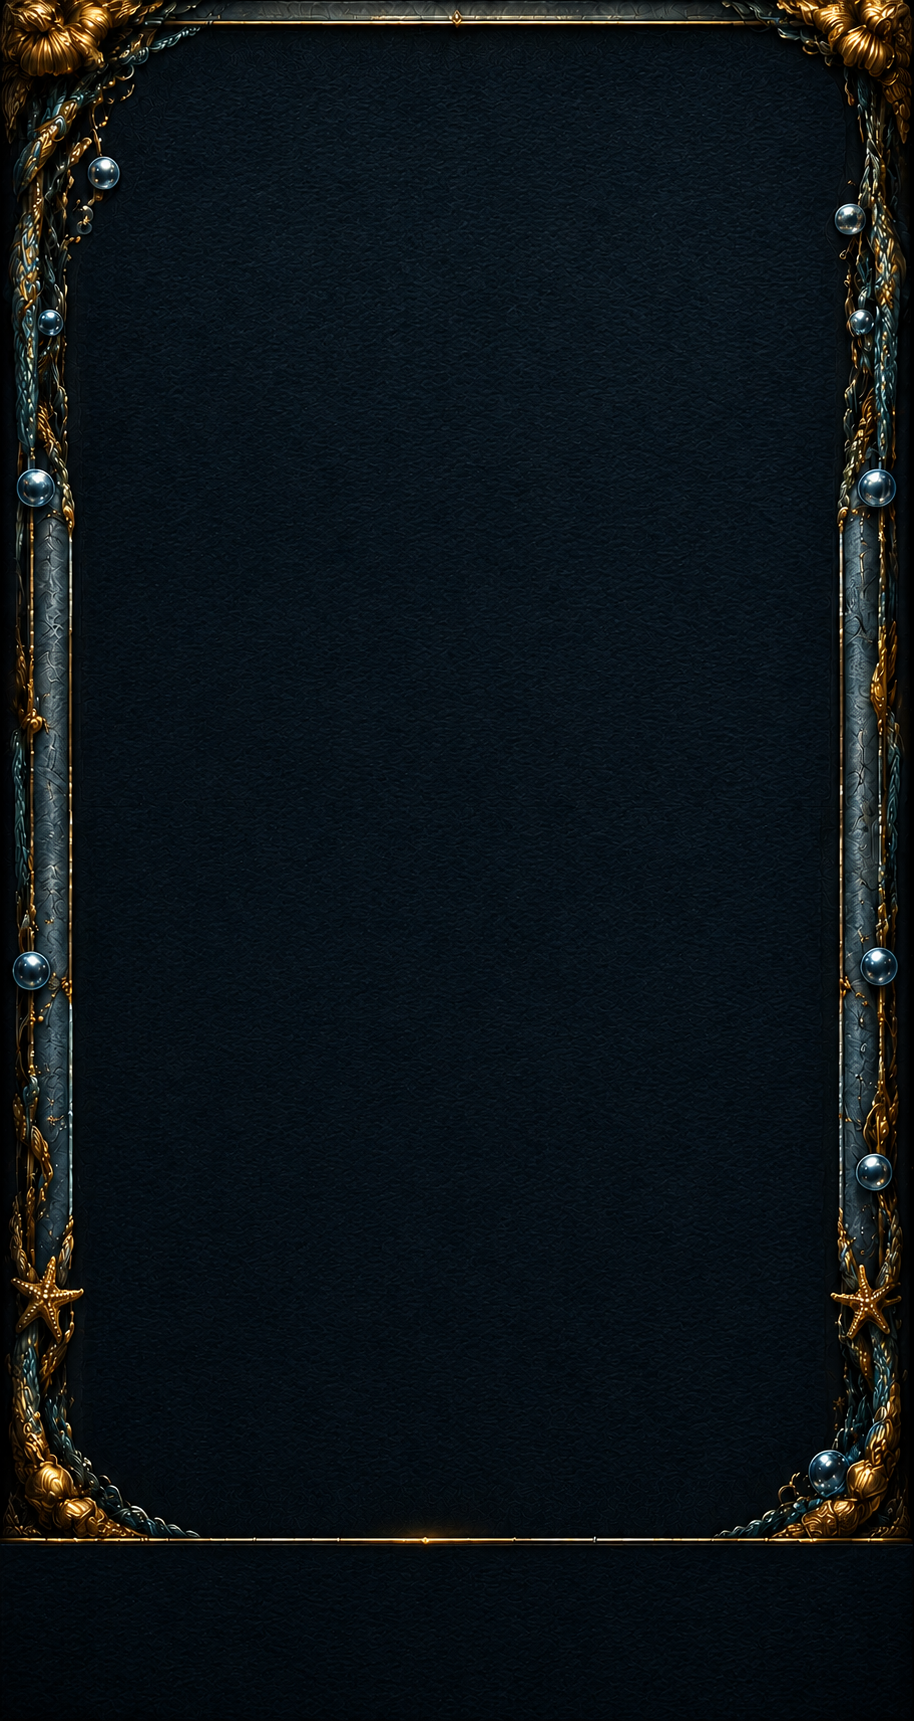
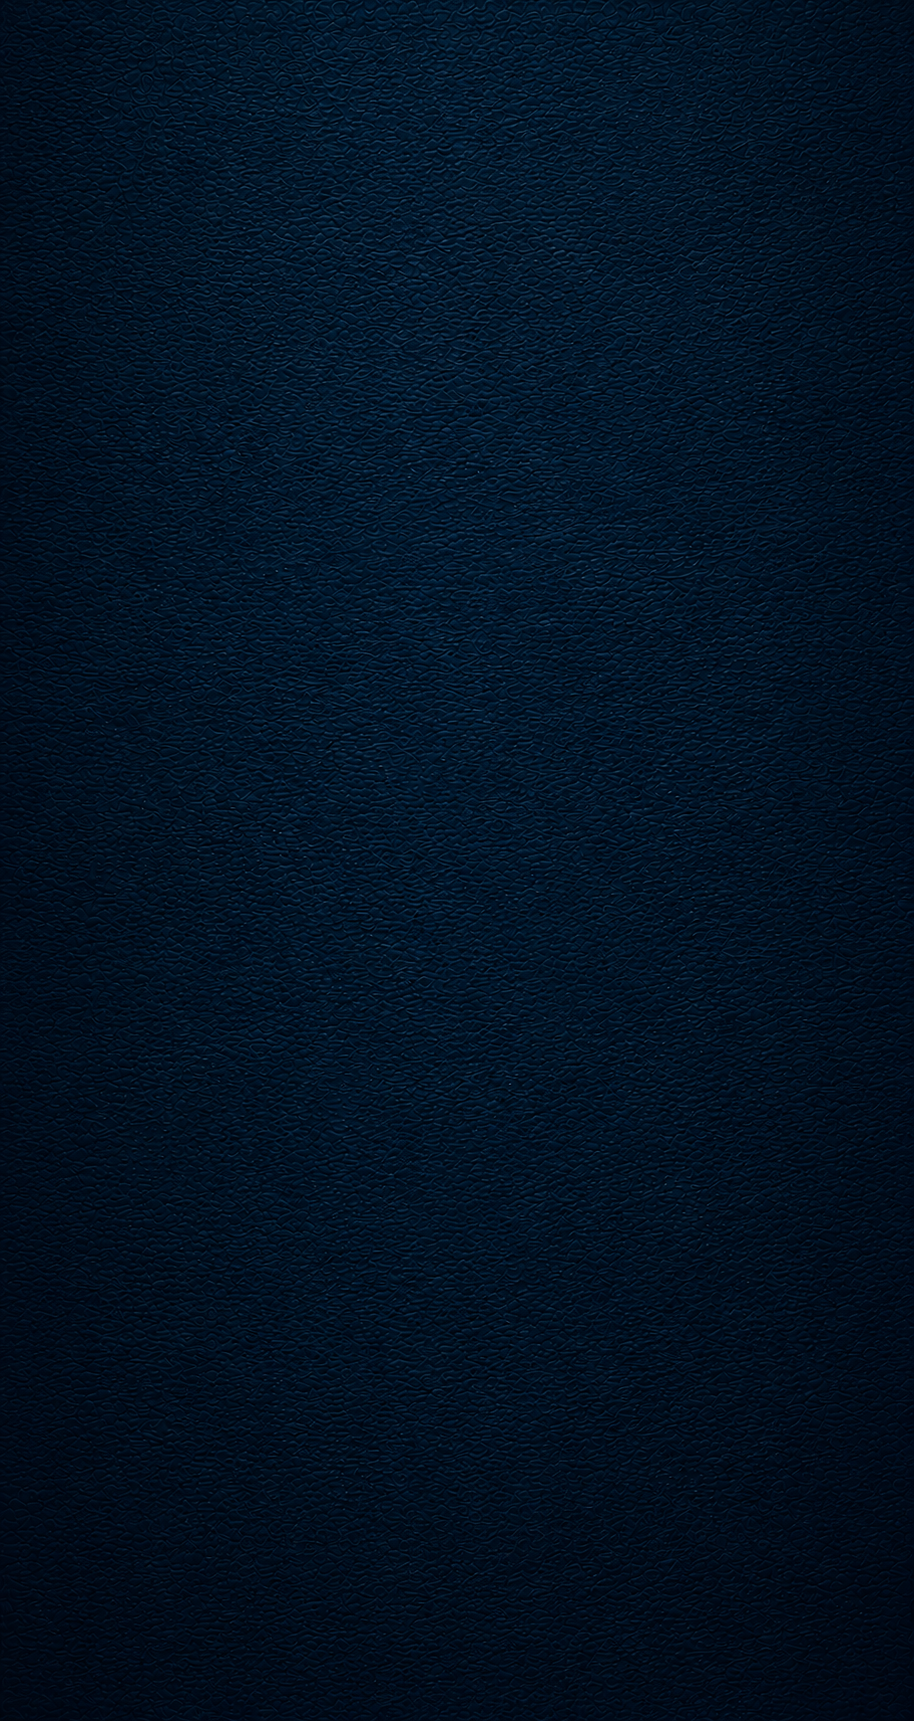
feat: add bg-frame overlay, hammer animation, UX polish

Changed region(s): [[0.0, 0.0, 1.0, 0.9547], [0.5514, 0.9855, 0.5821, 1.0], [0.337, 0.9855, 0.3676, 1.0]]

diff --git a/game/templates/game/index.html b/game/templates/game/index.html
@@ -24,22 +24,33 @@
             background: url("{% static 'game/img/bg.png' %}") center / 100% 100% no-repeat;
             display: flex;
             flex-direction: column;
-            /* отступы внутри рамки */
+            position: relative;
             padding: 12px 28px 0 28px;
+        }
+
+        .bg-frame-overlay {
+            position: absolute;
+            inset: 0;
+            width: 100%;
+            height: 100%;
+            object-fit: fill;
+            z-index: 9999;
+            pointer-events: none;
         }
 
         /* ── Блок 1: Шапка ── */
         .block-header {
             flex-shrink: 0;
-            height: 80px;
+            height: 60px;
             display: flex;
-            align-items: center;
+            align-items: flex-start;
             justify-content: center;
+            padding-top: 4px;
         }
 
         .page-title {
             font-family: 'Palatino Linotype', Palatino, Georgia, serif;
-            font-size: 44px;
+            font-size: 38px;
             font-weight: 900;
             color: #d4a84b;
             text-shadow:
@@ -57,11 +68,12 @@
             justify-content: center;
             gap: 8px;
             padding: 8px 14px;
+            isolation: isolate;
         }
 
         .card-slot {
-            flex: 1;
-            height: 100%;
+            width: 100%;
+            aspect-ratio: 3 / 4;
             border: 2px solid #c9a227;
             border-radius: 8px;
             background: rgba(10, 15, 25, 0.6);
@@ -69,6 +81,14 @@
                 0 0 0 1px rgba(201,162,39,0.15),
                 inset 0 0 12px rgba(0,0,0,0.5);
             position: relative;
+            display: flex;
+            flex-direction: column;
+            align-items: center;
+            justify-content: center;
+            gap: 4px;
+            -webkit-tap-highlight-color: transparent;
+            user-select: none;
+            -webkit-user-select: none;
         }
 
         .card-slot::before {
@@ -90,62 +110,107 @@
             text-shadow: 0 0 8px rgba(201,162,39,0.7);
         }
 
-        /* Первый слот — бронзовая рамка */
-        .card-slot:first-child {
-            border: none;
-            box-shadow: none;
-            background: url("{% static 'game/img/frames/frame-bronze.png' %}") center / 100% 100% no-repeat;
+
+        .slot-img {
+            position: absolute;
+            inset: 0;
+            width: 100%;
+            height: 100%;
+            object-fit: cover;
+            z-index: 1;
+            will-change: transform;
+            transform: translateZ(0);
         }
 
-        .card-slot:first-child::before { display: none; }
-        .card-slot:first-child::after  { display: none; }
-
-        /* Центральный слот — серебряная рамка */
-        .card-slot:nth-child(2) {
-            border: none;
-            box-shadow: none;
-            background: url("{% static 'game/img/frames/frame-silver.png' %}") center / 100% 100% no-repeat;
+        .slot-frame {
+            position: absolute;
+            inset: 0;
+            width: 100%;
+            height: 100%;
+            object-fit: fill;
+            z-index: 2;
+            pointer-events: none;
         }
 
-        .card-slot:nth-child(2)::before { display: none; }
-        .card-slot:nth-child(2)::after  { display: none; }
-
-        /* Последний слот — рамка из изображения */
-        .card-slot:last-child {
+        /* Слоты с рамками-изображениями */
+        .card-slot--bronze,
+        .card-slot--silver,
+        .card-slot--gold {
             border: none;
             box-shadow: none;
-            background: url("{% static 'game/img/frames/frame-gold.png' %}") center / 100% 100% no-repeat;
+            background: none;
+            padding: 0;
+            overflow: hidden;
         }
 
-        .card-slot:last-child::before { display: none; }
-        .card-slot:last-child::after  { display: none; }
+        .card-slot--bronze::before,
+        .card-slot--silver::before,
+        .card-slot--gold::before,
+        .card-slot--bronze::after,
+        .card-slot--silver::after,
+        .card-slot--gold::after { display: none; }
+
+        .slot-wrap {
+            flex: 1;
+            min-width: 0;
+            display: flex;
+            flex-direction: column;
+            align-items: center;
+            gap: 4px;
+        }
+
+        .slot-num {
+            font-family: 'Palatino Linotype', Georgia, serif;
+            font-size: 13px;
+            font-weight: bold;
+            color: #d4a84b;
+            text-shadow: 0 1px 4px rgba(0,0,0,0.8);
+            white-space: nowrap;
+        }
 
         .slot-btn-wrap {
             display: flex;
             justify-content: center;
             margin-top: 14px;
             margin-bottom: -8px;
+            isolation: isolate;
+        }
+
+        @keyframes hammer-swing {
+            0%   { transform: scale(1.1) rotate(0deg); }
+            25%  { transform: scale(1.1) rotate(-30deg); }
+            55%  { transform: scale(1.1) rotate(15deg); }
+            75%  { transform: scale(1.1) rotate(-8deg); }
+            100% { transform: scale(1.1) rotate(0deg); }
         }
 
         .round-btn {
-            width: 44px;
-            height: 44px;
+            width: 52px;
+            height: 52px;
             border-radius: 50%;
-            border: 2px solid #c9a227;
-            background: linear-gradient(180deg, #2a2010 0%, #1a1008 100%);
-            color: #f0d060;
-            font-size: 24px;
+            border: none;
+            outline: none;
+            background: url("{% static 'game/img/hummer.png' %}") center / cover no-repeat;
             cursor: pointer;
-            display: flex;
-            align-items: center;
-            justify-content: center;
-            box-shadow: 0 0 10px rgba(201,162,39,0.4), inset 0 1px 0 rgba(255,220,100,0.1);
-            transition: box-shadow 0.18s, transform 0.15s;
+            transition: filter 0.15s;
+            filter: drop-shadow(0 2px 8px rgba(0,0,0,0.7));
+            -webkit-tap-highlight-color: transparent;
+            user-select: none;
+            -webkit-user-select: none;
+            will-change: transform;
+            transform: translateZ(0);
         }
 
         .round-btn:hover {
-            box-shadow: 0 0 18px rgba(201,162,39,0.7);
-            transform: scale(1.08);
+            animation: hammer-swing 0.45s ease-out forwards;
+            filter: drop-shadow(0 0 14px rgba(201,162,39,0.8)) drop-shadow(0 0 4px rgba(255,200,60,0.5));
+        }
+
+        .round-btn:active {
+            animation: none;
+            transform: scale(0.92) rotate(20deg);
+            filter: drop-shadow(0 0 6px rgba(201,162,39,0.4));
+            transition: transform 0.08s, filter 0.08s;
         }
 
         /* ── Разделитель ── */
@@ -173,6 +238,8 @@
             justify-content: space-around;
             padding: 0 0 6px 0;
             margin: 0 -28px;
+            position: relative;
+            z-index: 10000;
         }
 
         .nav-item {
@@ -187,6 +254,9 @@
             padding: 6px 4px;
             border-radius: 8px;
             transition: background 0.18s;
+            -webkit-tap-highlight-color: transparent;
+            user-select: none;
+            -webkit-user-select: none;
         }
 
         .nav-item-back {
@@ -200,6 +270,9 @@
             border: 1.5px solid #6a5010;
             box-shadow: 0 2px 8px rgba(0,0,0,0.7), inset 0 1px 0 rgba(201,162,39,0.12);
             cursor: pointer;
+            -webkit-tap-highlight-color: transparent;
+            user-select: none;
+            -webkit-user-select: none;
         }
 
         .nav-item-back span { font-size: 18px; color: #c9a227; }
@@ -228,6 +301,39 @@
         }
         .nav-item:hover .nav-icon  { color: #d4b040; }
         .nav-item:hover .nav-label { color: #d4b040; }
+
+        /* ── Инвентарь ── */
+        .inv-grid {
+            display: grid;
+            grid-template-columns: repeat(2, 1fr);
+            gap: 10px;
+            padding: 8px 22px 12px;
+        }
+
+        .inv-card {
+            position: relative;
+            aspect-ratio: 3 / 4;
+            background: center / 100% 100% no-repeat;
+            cursor: pointer;
+            transition: transform 0.18s;
+            display: flex;
+            flex-direction: column;
+            align-items: center;
+            justify-content: flex-end;
+            padding-bottom: 12%;
+            -webkit-tap-highlight-color: transparent;
+            user-select: none;
+            -webkit-user-select: none;
+        }
+
+        .inv-card:hover { transform: translateY(-4px); }
+
+        .inv-card-img {
+            width: 100%;
+            height: 100%;
+            object-fit: contain;
+        }
+
     </style>
 </head>
 <body>
@@ -238,23 +344,39 @@
             <h1 class="page-title">Коллекция</h1>
         </div>
 
-        <!-- Блок 2: Верхний контент — 3 слота -->
+        <!-- Блок 2: Верхний контент — 3 активных слота из БД -->
         <div class="block-top">
-            <div class="card-slot"></div>
-            <div class="card-slot"></div>
-            <div class="card-slot"></div>
+            {% for slot in active_slots %}
+            <div class="slot-wrap">
+                <span class="slot-num">x{{ slot.value }}</span>
+                <div class="card-slot card-slot--{{ slot.frame }}">
+                    <img class="slot-img" src="{% static 'game/img/card-sample.png' %}" alt="{{ slot.name }}">
+                    {% if slot.frame == 'bronze' %}<img class="slot-frame" src="{% static 'game/img/frames/frame-bronze.png' %}" alt="">
+                    {% elif slot.frame == 'silver' %}<img class="slot-frame" src="{% static 'game/img/frames/frame-silver.png' %}" alt="">
+                    {% elif slot.frame == 'gold' %}<img class="slot-frame" src="{% static 'game/img/frames/frame-gold.png' %}" alt="">{% endif %}
+                </div>
+            </div>
+            {% endfor %}
         </div>
 
         <!-- Кнопка под слотами -->
         <div class="slot-btn-wrap">
-            <button class="round-btn">+</button>
+            <button class="round-btn"></button>
         </div>
 
         <!-- Разделитель -->
         <div class="block-divider"></div>
 
-        <!-- Блок 3: Карточки -->
-        <div class="block-cards"></div>
+        <!-- Блок 3: Карточки из БД -->
+        <div class="block-cards">
+            <div class="inv-grid">
+                {% for card in inventory_cards %}
+                <div class="inv-card">
+                    <img class="inv-card-img" src="{% static 'game/img/card-sample.png' %}" alt="{{ card.name }}">
+                </div>
+                {% endfor %}
+            </div>
+        </div>
 
         <!-- Нижняя навигация -->
         <nav class="bottom-nav">
@@ -279,6 +401,7 @@
             </a>
         </nav>
 
+        <img class="bg-frame-overlay" src="{% static 'game/img/bg-frame.png' %}" alt="">
     </div>
 </body>
 </html>

diff --git a/game/views.py b/game/views.py
@@ -16,6 +16,13 @@ def index(request):
         {'name': 'Комиссар',  'icon': '🏛',  'value': '1.7', 'rarity': 'rare',      'description': 'Может ликвидировать одного бандита за ночь.'},
         {'name': 'Телохран.', 'icon': '🛡',  'value': '1.5', 'rarity': 'uncommon',  'description': 'Встаёт под удар вместо выбранного игрока.'},
     ]
+    active_slots = [
+        {'name': 'Детектив', 'icon': '🔍', 'frame': 'bronze', 'value': '1.4'},
+        {'name': 'Мафия',    'icon': '🔫', 'frame': 'silver', 'value': '1.8'},
+        {'name': 'Шериф',    'icon': '⭐', 'frame': 'gold',   'value': '2.4'},
+    ]
+
     return render(request, 'game/index.html', {
         'inventory_cards': inventory_cards,
+        'active_slots': active_slots,
     })
